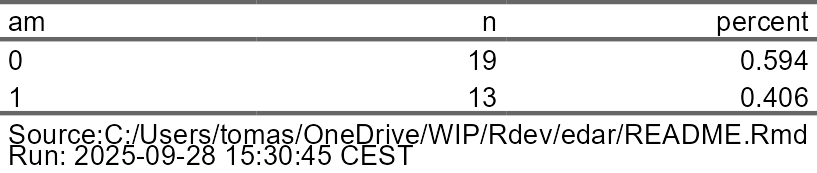
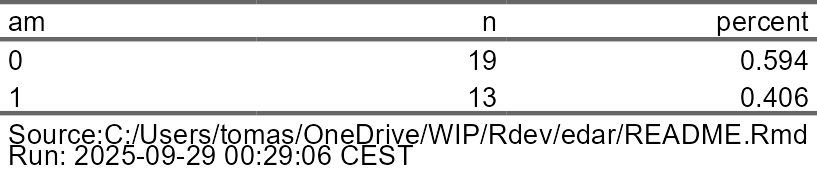
Badges in progress

Changed region(s): [[0.2448, 0.8382, 0.4284, 0.9538]]

diff --git a/README.md b/README.md
@@ -5,6 +5,9 @@
 
 <!-- badges: start -->
 
+[![R-CMD-check](https://github.com/soutomas/edar/actions/workflows/R-CMD-check.yaml/badge.svg)](https://github.com/soutomas/edar/actions/workflows/R-CMD-check.yaml)
+[![Codecov test
+coverage](https://codecov.io/gh/soutomas/edar/graph/badge.svg)](https://app.codecov.io/gh/soutomas/edar)
 <!-- badges: end -->
 
 The goal of edar is to provide some convenient functions for common
@@ -53,7 +56,7 @@ output.
 library(edar)
 lab1 = label_src(1)
 lab1
-#> [1] "Source:C:/Users/tomas/OneDrive/WIP/Rdev/edar/README.Rmd\nRun: 2025-09-28 15:30:43 CEST"
+#> [1] "Source:C:/Users/tomas/OneDrive/WIP/Rdev/edar/README.Rmd\nRun: 2025-09-29 00:29:04 CEST"
 ```
 
 The source label can be directly added to a ggplot object.
